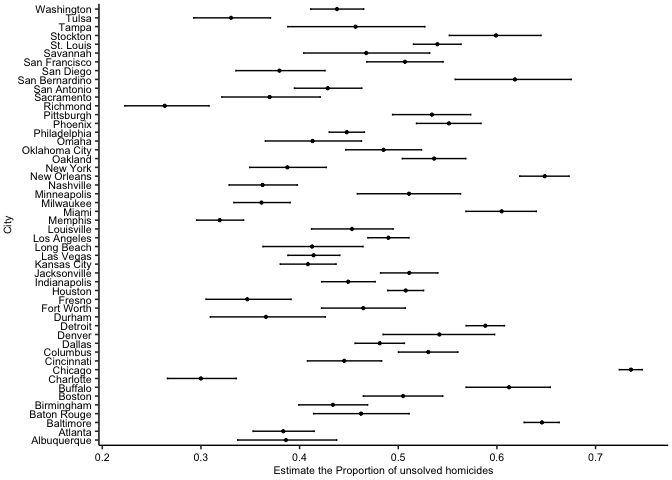
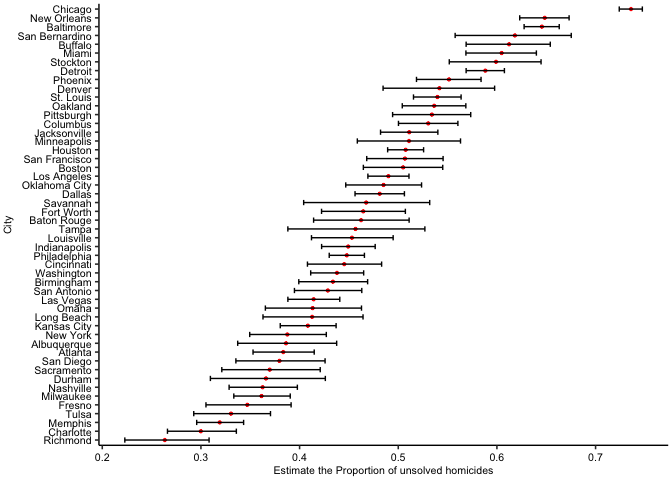
Comments on Problem1

diff --git a/p8105_hw5_yq2378.md b/p8105_hw5_yq2378.md
@@ -30,6 +30,11 @@ library(patchwork)
 homicide = read.csv("https://raw.githubusercontent.com/washingtonpost/data-homicides/master/homicide-data.csv")
 ```
 
+The dataset contains 52179 observations of 12 variables. It has
+information about the reported date, varies from 2007/1/1 to 2015/11/05,
+the profile of the victim, including name, race, age and sex, also the
+location and disposition of the cases.
+
 ``` r
 homicide = homicide %>% 
   mutate(city_state = str_c(city, state, sep=", ")) 
@@ -56,11 +61,10 @@ ttl_bycity
     ## 10 New Orleans     1434          930
     ## # ℹ 40 more rows
 
-For the city of Baltimore, MD, use the prop.test function to estimate
-the proportion of homicides that are unsolved; save the output of
-prop.test as an R object, apply the broom::tidy to this object and pull
-the estimated proportion and confidence intervals from the resulting
-tidy dataframe
+`ttl_bycity` is the data frame summarizing total number of homicides and
+the number of unsolved homicides within cities. The dataset includes 50
+observations of 3 variables and the data is arranged by `ttl_cnt` (the
+total count of homicides) descendant.
 
 ``` r
 ttl_cnt = 2827
@@ -75,18 +79,13 @@ broom::tidy(prop_output)
     ## 1    0.646      239. 6.46e-54         1    0.628     0.663 1-sample… two.sided
 
 ``` r
-broom::tidy(prop_output) %>% pull(estimate)
+estimate = broom::tidy(prop_output) %>% pull(estimate)
+conf_low = broom::tidy(prop_output) %>% pull(conf.low)
+conf_high = broom::tidy(prop_output) %>% pull(conf.high)
 ```
 
-    ##         p 
-    ## 0.6455607
-
-``` r
-broom::tidy(prop_output) %>% pull(conf.low, conf.high)
-```
-
-    ## 0.663159860401662 
-    ##         0.6275625
+For the city of Baltimore, the test result is saved in `prop_output`.
+The estimated proportion is 0.6455607 and the CI is (0.6276, 0.6632).
 
 ``` r
 CI_bycity = 
@@ -94,7 +93,7 @@ CI_bycity =
   mutate(prop_output = map2(.x = unsolved_cnt, .y = ttl_cnt, prop.test),
          prop_output = map(prop_output,broom::tidy)) |> 
   unnest(prop_output) |>
-  mutate(CI = paste("(",round(conf.low,4),", ", round(conf.high,4),")"),
+  mutate(CI = paste("(",round(conf.low,4),", ", round(conf.high,4),")", sep = ""),
          estimate = round(estimate, 4)) |>
   select(city, ttl_cnt, unsolved_cnt, estimate,CI, conf.low, conf.high)
 CI_bycity
@@ -104,30 +103,38 @@ CI_bycity
     ## # Groups:   city [50]
     ##    city         ttl_cnt unsolved_cnt estimate CI              conf.low conf.high
     ##    <chr>          <int>        <dbl>    <dbl> <chr>              <dbl>     <dbl>
-    ##  1 Chicago         5535         4073    0.736 ( 0.724 ,  0.7…    0.724     0.747
-    ##  2 Philadelphia    3037         1360    0.448 ( 0.43 ,  0.46…    0.430     0.466
-    ##  3 Houston         2942         1493    0.507 ( 0.4892 ,  0.…    0.489     0.526
-    ##  4 Baltimore       2827         1825    0.646 ( 0.6276 ,  0.…    0.628     0.663
-    ##  5 Detroit         2519         1482    0.588 ( 0.5688 ,  0.…    0.569     0.608
-    ##  6 Los Angeles     2257         1106    0.49  ( 0.4692 ,  0.…    0.469     0.511
-    ##  7 St. Louis       1677          905    0.540 ( 0.5154 ,  0.…    0.515     0.564
-    ##  8 Dallas          1567          754    0.481 ( 0.4562 ,  0.…    0.456     0.506
-    ##  9 Memphis         1514          483    0.319 ( 0.2957 ,  0.…    0.296     0.343
-    ## 10 New Orleans     1434          930    0.648 ( 0.6231 ,  0.…    0.623     0.673
+    ##  1 Chicago         5535         4073    0.736 (0.724, 0.7474)    0.724     0.747
+    ##  2 Philadelphia    3037         1360    0.448 (0.43, 0.4657)     0.430     0.466
+    ##  3 Houston         2942         1493    0.507 (0.4892, 0.525…    0.489     0.526
+    ##  4 Baltimore       2827         1825    0.646 (0.6276, 0.663…    0.628     0.663
+    ##  5 Detroit         2519         1482    0.588 (0.5688, 0.607…    0.569     0.608
+    ##  6 Los Angeles     2257         1106    0.49  (0.4692, 0.510…    0.469     0.511
+    ##  7 St. Louis       1677          905    0.540 (0.5154, 0.563…    0.515     0.564
+    ##  8 Dallas          1567          754    0.481 (0.4562, 0.506…    0.456     0.506
+    ##  9 Memphis         1514          483    0.319 (0.2957, 0.343…    0.296     0.343
+    ## 10 New Orleans     1434          930    0.648 (0.6231, 0.673…    0.623     0.673
     ## # ℹ 40 more rows
+
+For each of the cities in the `ttl_bycity` dataset, we reserved `city`,
+`ttl_cnt` and `unsolved_cnt` for reference. Through the iteration, we
+pull the estimate of the target proportion and the CIs. We also saved
+the `conf.low` and `conf.high` for later use.
 
 ``` r
 CI_bycity |>
-  ggplot(aes(x = factor(city), y = estimate))+ 
-  geom_point(size = 0.8) + 
-  geom_errorbar(aes(ymin = conf.low,  ymax = conf.high), width = 0.2) + 
+  ggplot(aes(x = fct_reorder(city,estimate), y = estimate))+ 
+  geom_point(size = 0.8,col = "red") + 
+  geom_errorbar(aes(ymin = conf.low,  ymax = conf.high), width = 0.6) + 
   coord_flip() + 
   theme_pubr() + xlab("City") + ylab("Estimate the Proportion of unsolved homicides") +
   theme(text = element_text(size = 8),
         plot.margin = unit(c(.1,.1,.1,.1),'cm'))
 ```
 
-![](p8105_hw5_yq2378_files/figure-gfm/error_bar-1.png)<!-- -->
+![](p8105_hw5_yq2378_files/figure-gfm/error_bar-1.png)<!-- --> Each row
+in the plot represents a city. The estimate proportion of unsolved cases
+is marked by a red point. The CI for each city is the black line. Cities
+are organized according to the proportion of unsolved homicides.
 
 # Problem 2
 
